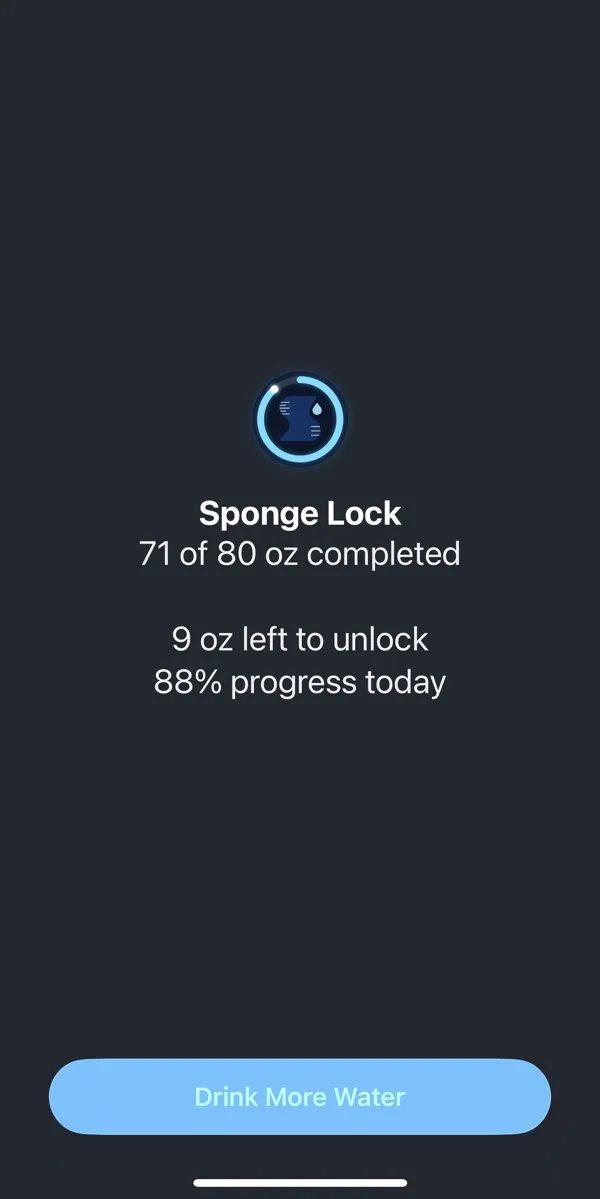
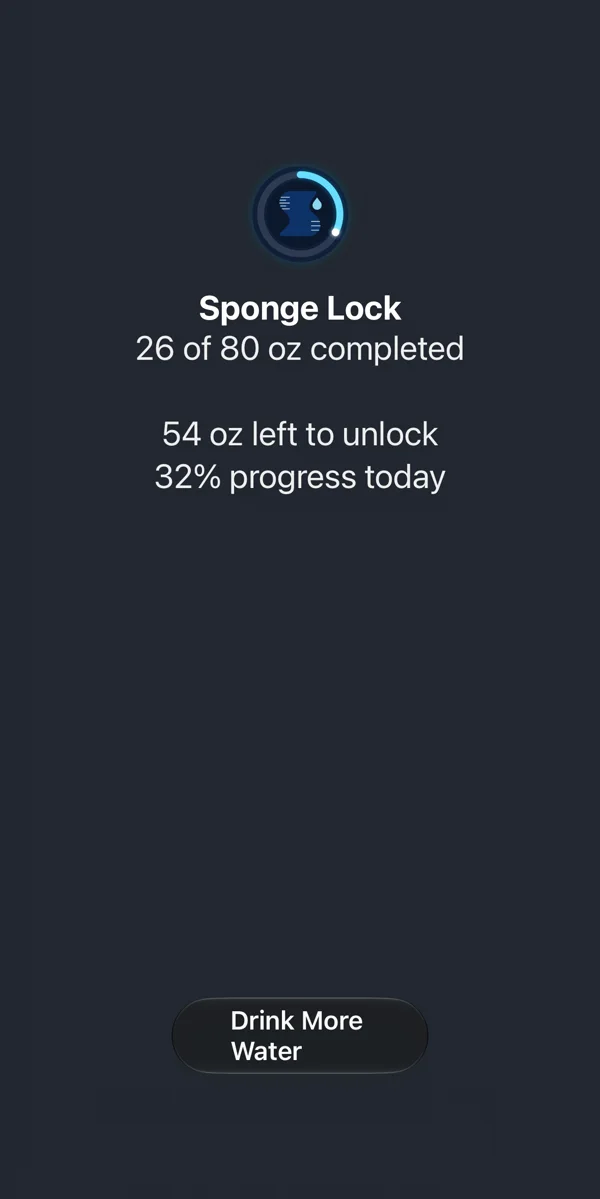
Lock click-through: matching screenshots at an 80 oz unlock goal

diff --git a/src/components/LockDemo.jsx b/src/components/LockDemo.jsx
@@ -3,7 +3,8 @@ import { useEffect, useRef, useState } from 'react'
 // Click-through walk of Hydration Locks (Nathan, 2026-11-23: "an interactive app
 // preview or slideshow that you can click through depicting how it works").
 // Every screen is a real, unretouched app screenshot, cropped only to remove the
-// status bar (step 4 is shown whole, or its header is cut off). All five images are in the prerendered page, so nothing depends on
+// status bar (step 4 is shown whole, or its header is cut off). Steps 2 to 5 are
+// one matching set at an 80 oz unlock goal (Nathan's 11-23 screenshots). All five images are in the prerendered page, so nothing depends on
 // script to be seen; script only decides which one is on top.
 export const LOCK_STEPS = [
   {
@@ -15,26 +16,26 @@ export const LOCK_STEPS = [
   {
     img: '/media/app/locks-step2.webp',
     title: 'Set the amount that unlocks each one',
-    body: 'Here TikTok opens at 60 oz. Nothing drunk yet, so it is locked.',
-    alt: 'Sponge Mode with the lock switched on and TikTok set to unlock at 60 oz, 60 oz remaining.',
+    body: 'Here Instagram opens at 80 oz.',
+    alt: 'The unlock goal picker for Instagram in the Sponge app, set to 80 oz.',
   },
   {
     img: '/media/app/locks-step3.webp',
     title: 'Open a locked app and Sponge is in the way',
     body: 'It tells you exactly how much water is left before it opens.',
-    alt: 'The Sponge Lock screen shown over a locked app: 71 of 80 oz completed, 9 oz left to unlock.',
+    alt: 'The Sponge Lock screen shown over a locked app: 26 of 80 oz completed, 54 oz left to unlock.',
   },
   {
     img: '/media/app/locks-step4.webp',
     title: 'Drink, and the Sponge on your bottle counts it',
     body: 'No logging and no buttons. The ring fills as you sip.',
-    alt: 'The Sponge home screen with the ring full at 83.0 oz, 100% of the goal.',
+    alt: 'The Sponge home screen with the ring full at 89.9 oz, 100% of the goal.',
   },
   {
     img: '/media/app/locks-step5.webp',
     title: 'They unlock as you drink, sip by sip',
     body: 'Reach the amount you set and the app opens.',
-    alt: 'Sponge Mode showing Social, TikTok and Instagram all unlocked, 0 oz remaining.',
+    alt: 'Sponge Mode showing Instagram and TikTok unlocked at 80 oz, 0 oz remaining.',
   },
 ]
 
